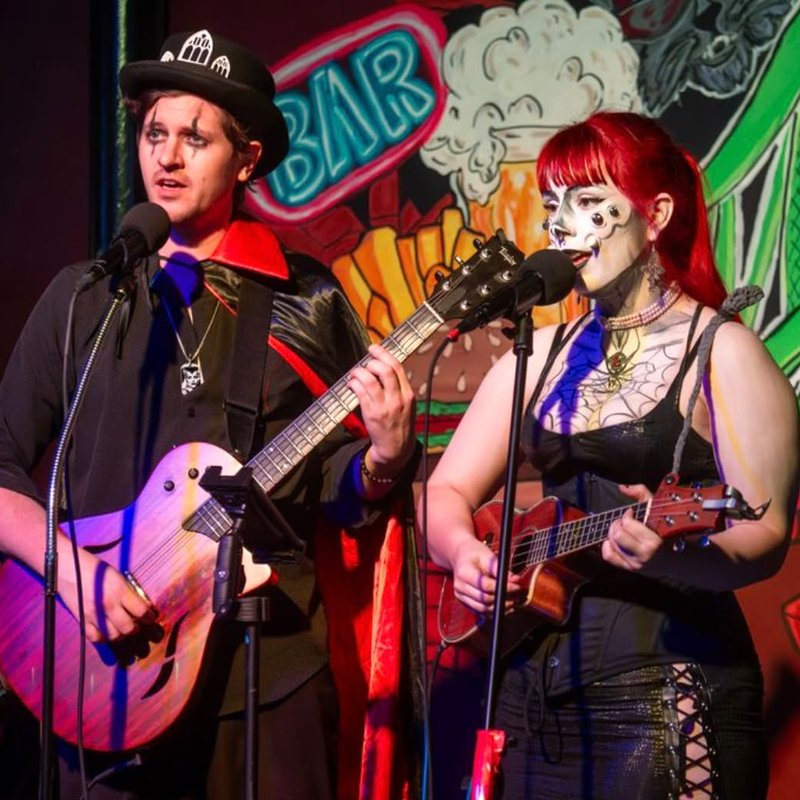
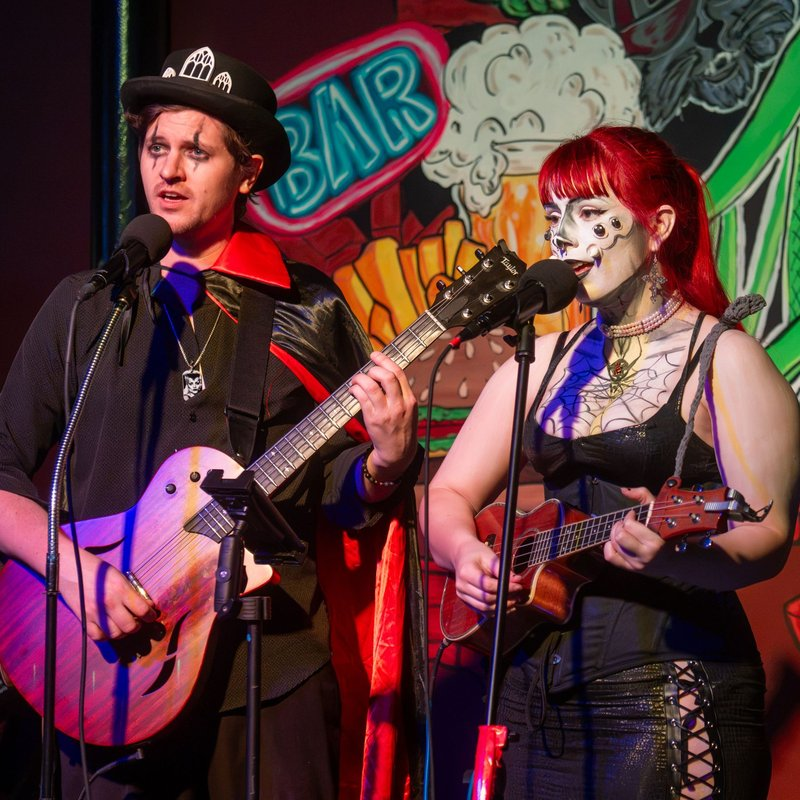
Fix hero caching and media duplicates
Rename the hero photo to hero.jpg (higher quality) so browsers don't
show the cached old banner. Replace two low-res photos that duplicated
newer shots with high-res versions, and remove unused placeholders.

Claude-Session: https://claude.ai/code/session_01KXXsZ6QmqLTuE89aaTCdiu

diff --git a/index.html b/index.html
@@ -33,9 +33,9 @@
 				</ul>
 			</nav>
 
-		<!-- Home: wide band photo (images/banner.jpg) with the logo on top -->
+		<!-- Home: wide band photo (images/hero.jpg) with the logo on top -->
 			<section id="top" class="hero">
-				<img class="banner" src="images/banner.jpg" alt="Palefire playing live" />
+				<img class="banner" src="images/hero.jpg" alt="Palefire playing live" />
 				<h1><img class="logo" src="images/logo.png" alt="" /><span class="visually-hidden">Palefire</span></h1>
 			</section>
 
@@ -105,15 +105,13 @@
 						<p>Follow us on Instagram at <a href="https://www.instagram.com/palefireband/">@palefireband</a>.</p>
 					</header>
 					<div class="gram">
-						<a href="images/live-01-full.jpg"><img src="images/live-01.jpg" alt="Palefire live" /><svg class="badge"><use href="#i-photo"/></svg></a>
-						<a href="images/live-02-full.jpg"><img src="images/live-02.jpg" alt="Palefire live" /><svg class="badge"><use href="#i-photo"/></svg></a>
-						<a href="images/group.jpg"><img src="images/live-03.jpg" alt="Palefire with friends at The Bridge House" /><svg class="badge"><use href="#i-photo"/></svg></a>
+						<a href="images/live-01-full.jpg"><img src="images/live-01.jpg" alt="Palefire live at The Bridge House" /><svg class="badge"><use href="#i-photo"/></svg></a>
 						<a href="images/live-04-full.jpg"><img src="images/live-04.jpg" alt="Palefire live at The Bridge House" /><svg class="badge"><use href="#i-photo"/></svg></a>
 						<a href="images/live-05-full.jpg"><img src="images/live-05.jpg" alt="Palefire with full band at The Bridge House" /><svg class="badge"><use href="#i-photo"/></svg></a>
+						<a href="images/group.jpg"><img src="images/live-03.jpg" alt="Palefire with friends at The Bridge House" /><svg class="badge"><use href="#i-photo"/></svg></a>
+						<!-- placeholders: replace with new photos (small square in src, full photo in href) -->
 						<a href="images/pic06.jpg"><img src="images/pic06.jpg" alt="" /><svg class="badge"><use href="#i-photo"/></svg></a>
-						<a href="images/pic02.jpg"><img src="images/pic02.jpg" alt="" /><svg class="badge"><use href="#i-photo"/></svg></a>
-						<a href="images/pic04.jpg"><img src="images/pic04.jpg" alt="" /><svg class="badge"><use href="#i-play"/></svg></a>
-						<a href="images/pic01.jpg"><img src="images/pic01.jpg" alt="" /><svg class="badge"><use href="#i-photo"/></svg></a>
+						<a href="images/pic02.jpg"><img src="images/pic02.jpg" alt="" /><svg class="badge"><use href="#i-play"/></svg></a>
 					</div>
 					<footer>
 						<a href="https://www.instagram.com/palefireband/" class="button large">Follow us on Instagram</a>

diff --git a/README.md b/README.md
@@ -8,7 +8,7 @@
 - `assets/js/` — scripts (`main.js` is the template's own logic; `lightbox.js` opens media photos full size — each tile's link points to its full image).
 - `assets/css/images/` — gothic shapes: `arch.svg` (pointed arch behind show dates), `ornament-eye.png` (eye-symbol divider under every heading).
 - `images/logo.png`, `images/symbol.png`, `images/favicon.png` — band logo, the eye symbol from its top, and the browser-tab icon (rendered from the 3D logo).
-- `images/banner.jpg` — wide photo behind the logo at the top (placeholder; replace with a photo of the band playing). It's cropped to fit, so keep the important part near the middle.
+- `images/hero.jpg` — wide photo behind the logo at the top (placeholder; replace with a photo of the band playing). It's cropped to fit, so keep the important part near the middle.
 - `images/` — replace `pic00.jpg`–`pic06.jpg` with your own images (keep names or update `index.html`).
 
 Preview locally by opening `index.html` in a browser.
